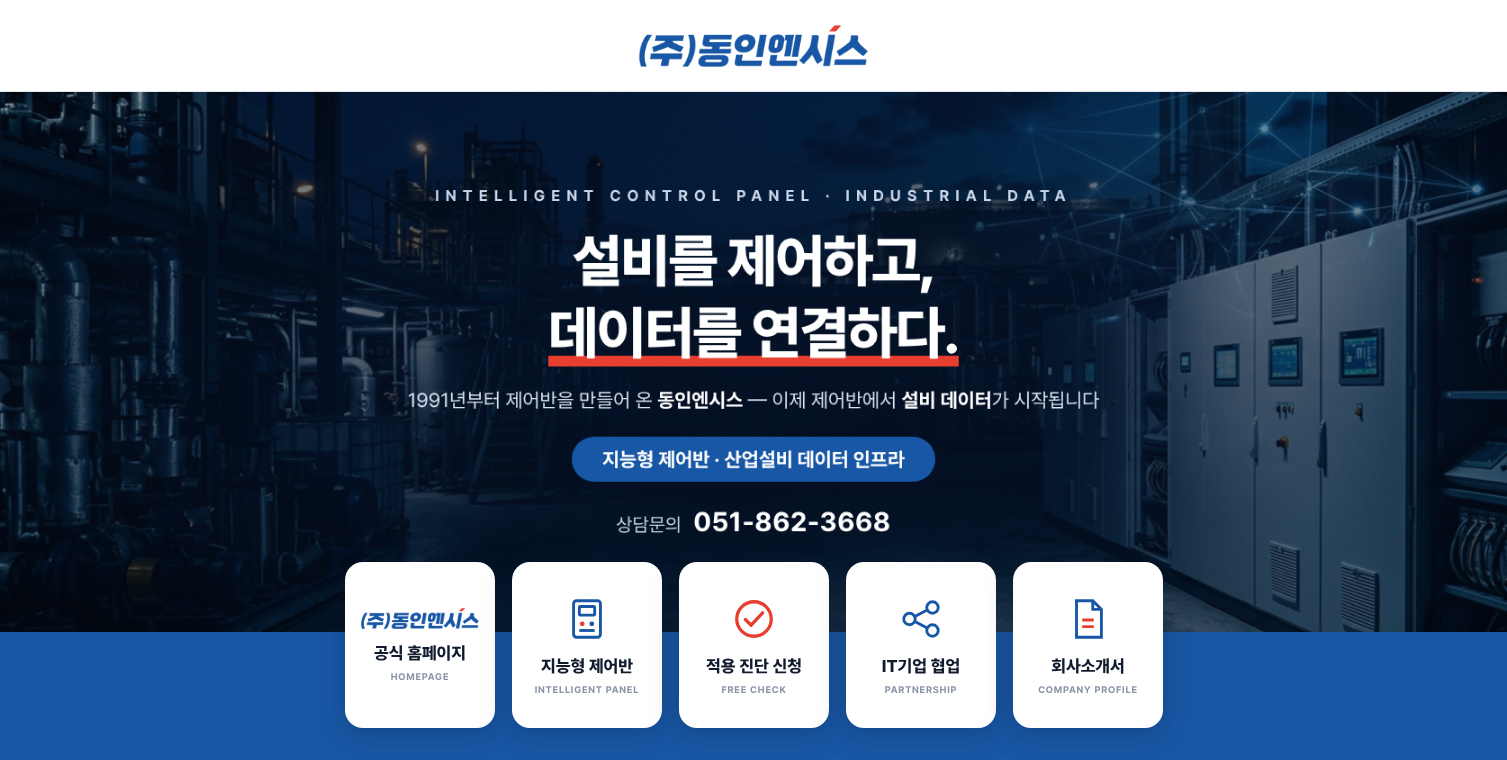
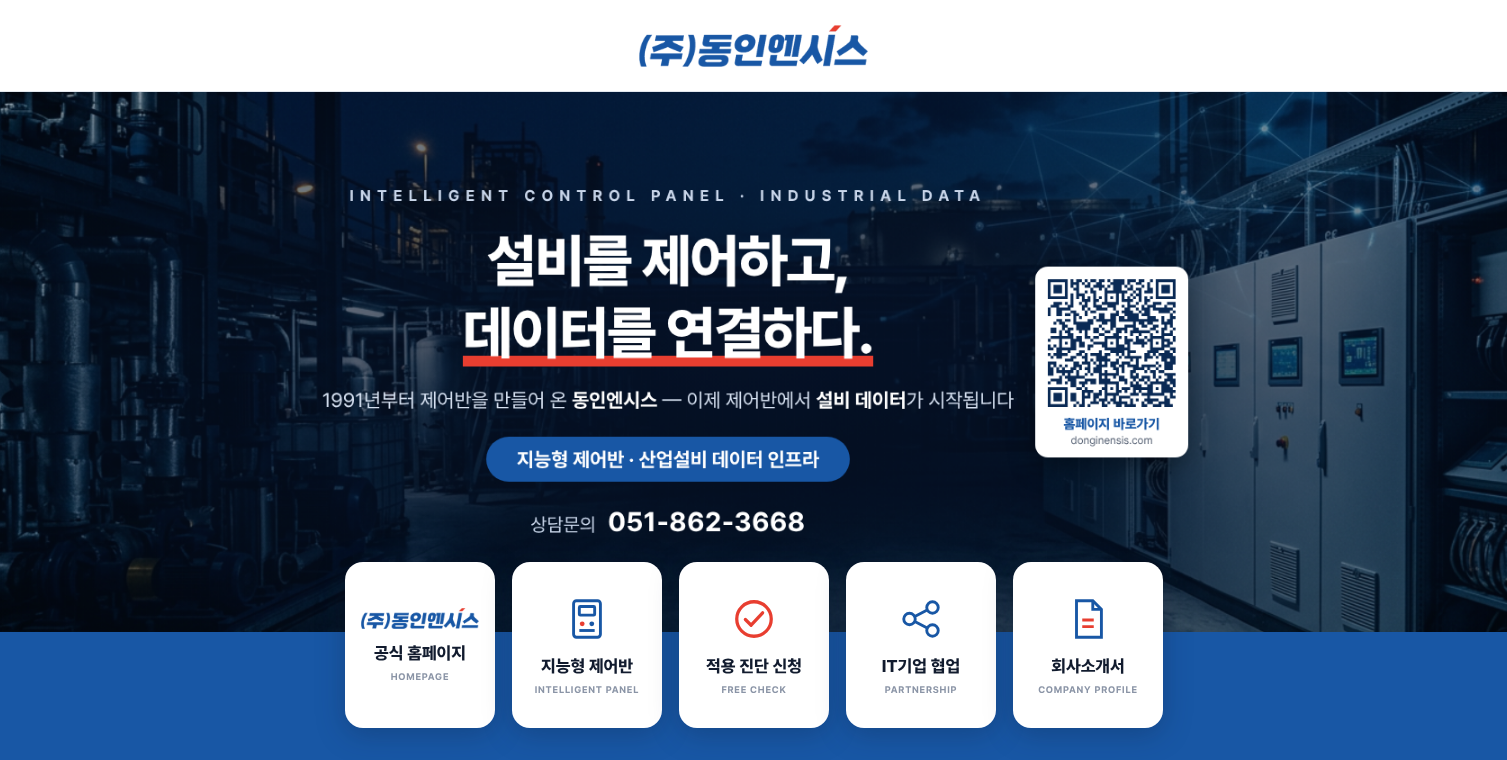
블로그 배너: 대표번호 051-862-3668 확정, 홈페이지 QR 추가
Claude-Session: https://claude.ai/code/session_01NXsXRUGdEyZ6oniYW4daEY

diff --git a/blog-design/images/hero.html b/blog-design/images/hero.html
@@ -2,12 +2,17 @@
 <div style="position:relative;width:100vw;height:100vh;overflow:hidden;background:#06142C">
 <img src="file:///home/user/donginensis-blog/blog-design/images/hero-photo.png" style="position:absolute;inset:0;width:100%;height:100%;object-fit:cover">
 <div style="position:absolute;inset:0;background:radial-gradient(60% 85% at 50% 48%, rgba(6,20,44,.86) 0%, rgba(6,20,44,.55) 60%, rgba(6,20,44,.25) 100%)"></div>
-<div style="position:relative;width:966px;height:100%;margin:0 auto;display:flex;flex-direction:column;align-items:center;justify-content:center;text-align:center;color:#fff">
+<div style="position:relative;width:966px;height:100%;margin:0 auto;padding-right:190px;display:flex;flex-direction:column;align-items:center;justify-content:center;text-align:center;color:#fff">
   <div style="font-size:17px;font-weight:600;letter-spacing:7px;color:#C9D6EA;margin-bottom:22px">INTELLIGENT CONTROL PANEL · INDUSTRIAL DATA</div>
   <div style="font-size:64px;font-weight:800;line-height:1.25;letter-spacing:-2px;margin-bottom:22px">설비를 제어하고,<br><span style="background:linear-gradient(transparent 84%, #E83E30 84%)">데이터를 연결하다.</span></div>
   <div style="font-size:22px;color:#D5E0F0;margin-bottom:28px">1991년부터 제어반을 만들어 온 <b style="color:#fff">동인엔시스</b> — 이제 제어반에서 <b style="color:#fff">설비 데이터</b>가 시작됩니다</div>
   <div style="display:inline-block;background:#1857A5;color:#fff;font-size:22px;font-weight:700;padding:12px 34px;border-radius:40px;margin-bottom:26px">지능형 제어반 · 산업설비 데이터 인프라</div>
   <div style="font-size:21px;color:#C9D6EA">상담문의 <b style="font-size:30px;color:#fff;letter-spacing:.5px;margin-left:8px">051-862-3668</b></div>
+</div>
+<div style="position:absolute;right:calc(50% - 483px);top:50%;transform:translateY(-50%);width:170px;background:#fff;border-radius:14px;padding:14px 14px 12px;text-align:center;box-shadow:0 10px 30px rgba(0,0,0,.35)">
+  <img src="file:///home/user/donginensis-blog/blog-design/images/qr-homepage.svg" style="width:142px;height:142px;display:block">
+  <div style="font-size:15px;font-weight:800;color:#1857A5;margin-top:10px">홈페이지 바로가기</div>
+  <div style="font-size:12px;color:#5A6577;margin-top:2px">donginensis.com</div>
 </div>
 <div class="footer" style="display:none"></div>
 </div>

diff --git a/blog-design/README.md b/blog-design/README.md
@@ -7,7 +7,8 @@
 
 | 파일 | 용도 | 크기 |
 |---|---|---|
-| `images/hero.png` | 큰 배너 (스킨 배경 또는 타이틀) — 글자는 가운데 966px 안에 있어 화면 폭이 달라도 잘리지 않음 | 1920×600 |
+| `images/hero.png` | 큰 배너 (스킨 배경 또는 타이틀). 상담문의 051-862-3668, 홈페이지 QR 포함. 글자와 QR은 가운데 966px 안에 있어 화면 폭이 달라도 잘리지 않음 | 1920×600 |
+| `images/qr-homepage.png` / `.svg` | 홈페이지 QR 단독 (명함·전단·글 끝 등에 재사용). 스캔 시 https://donginensis.com/?utm_source=naver_blog&utm_medium=qr | 정사각형 |
 | `images/btn-1-home.png` | 버튼 1: 공식 홈페이지 (지금과 같음) | 150×166 |
 | `images/btn-2-panel.png` | 버튼 2: 지능형 제어반 | 150×166 |
 | `images/btn-3-check.png` | 버튼 3: 적용 진단 신청 | 150×166 |
